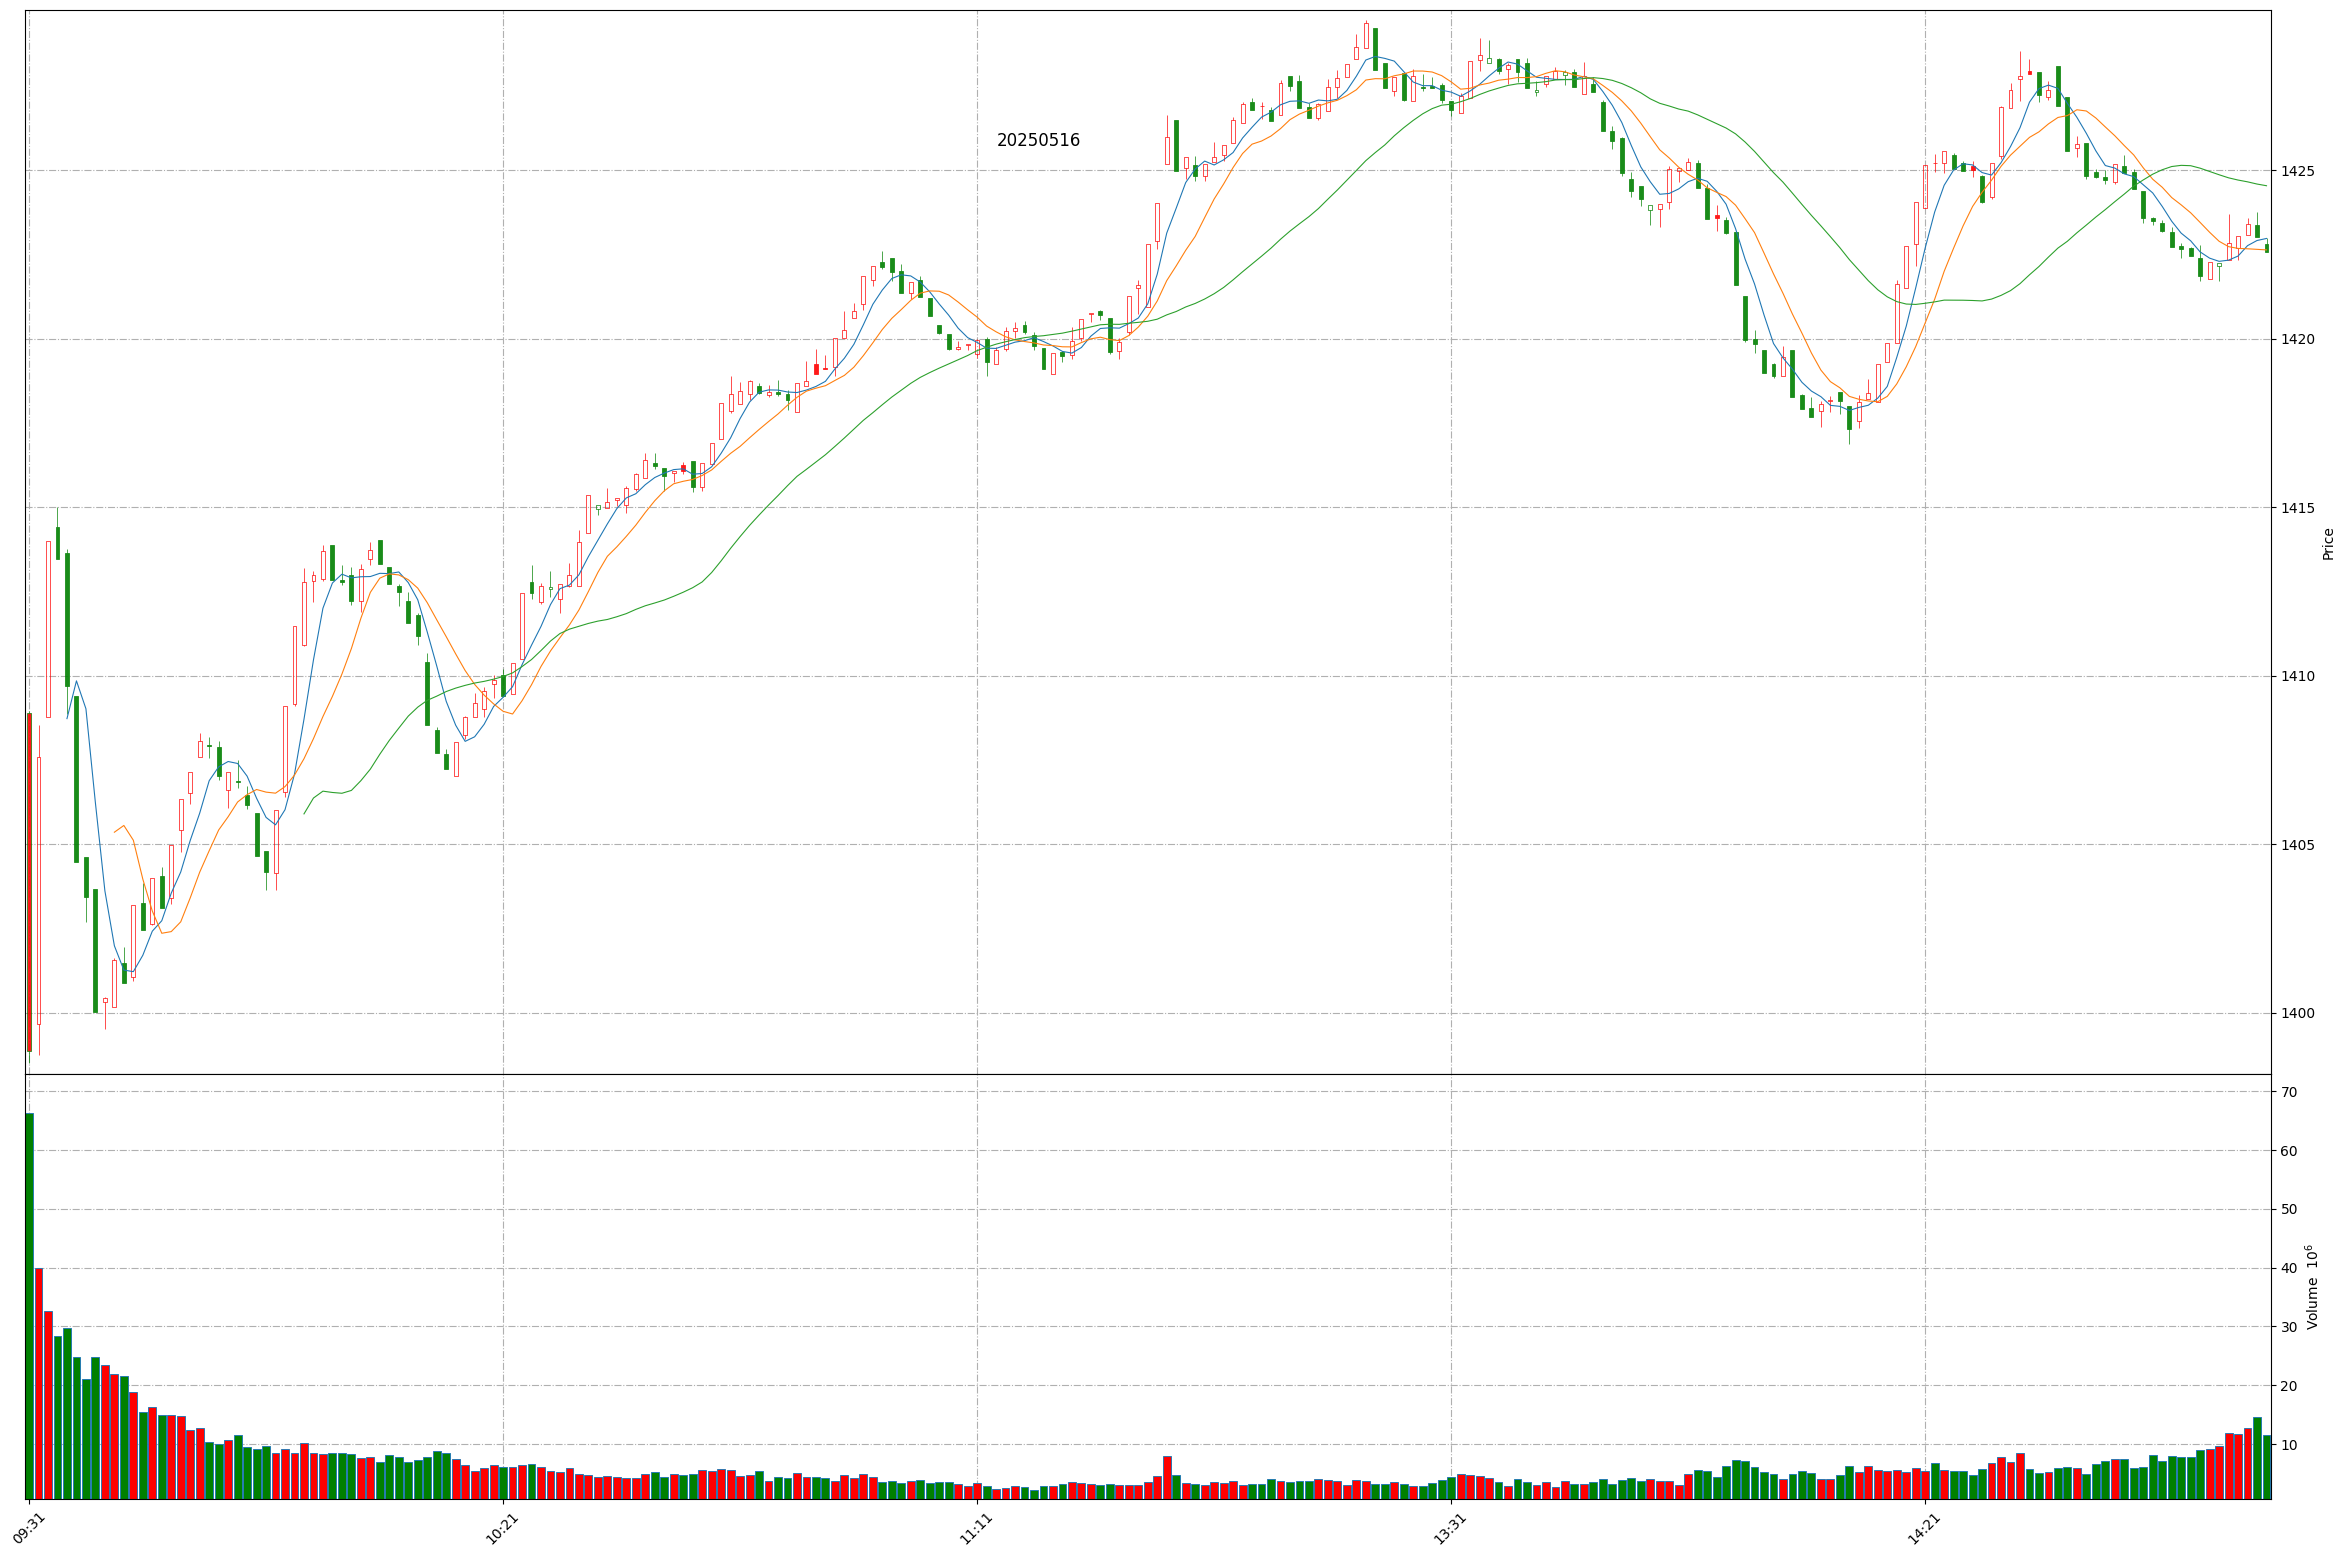
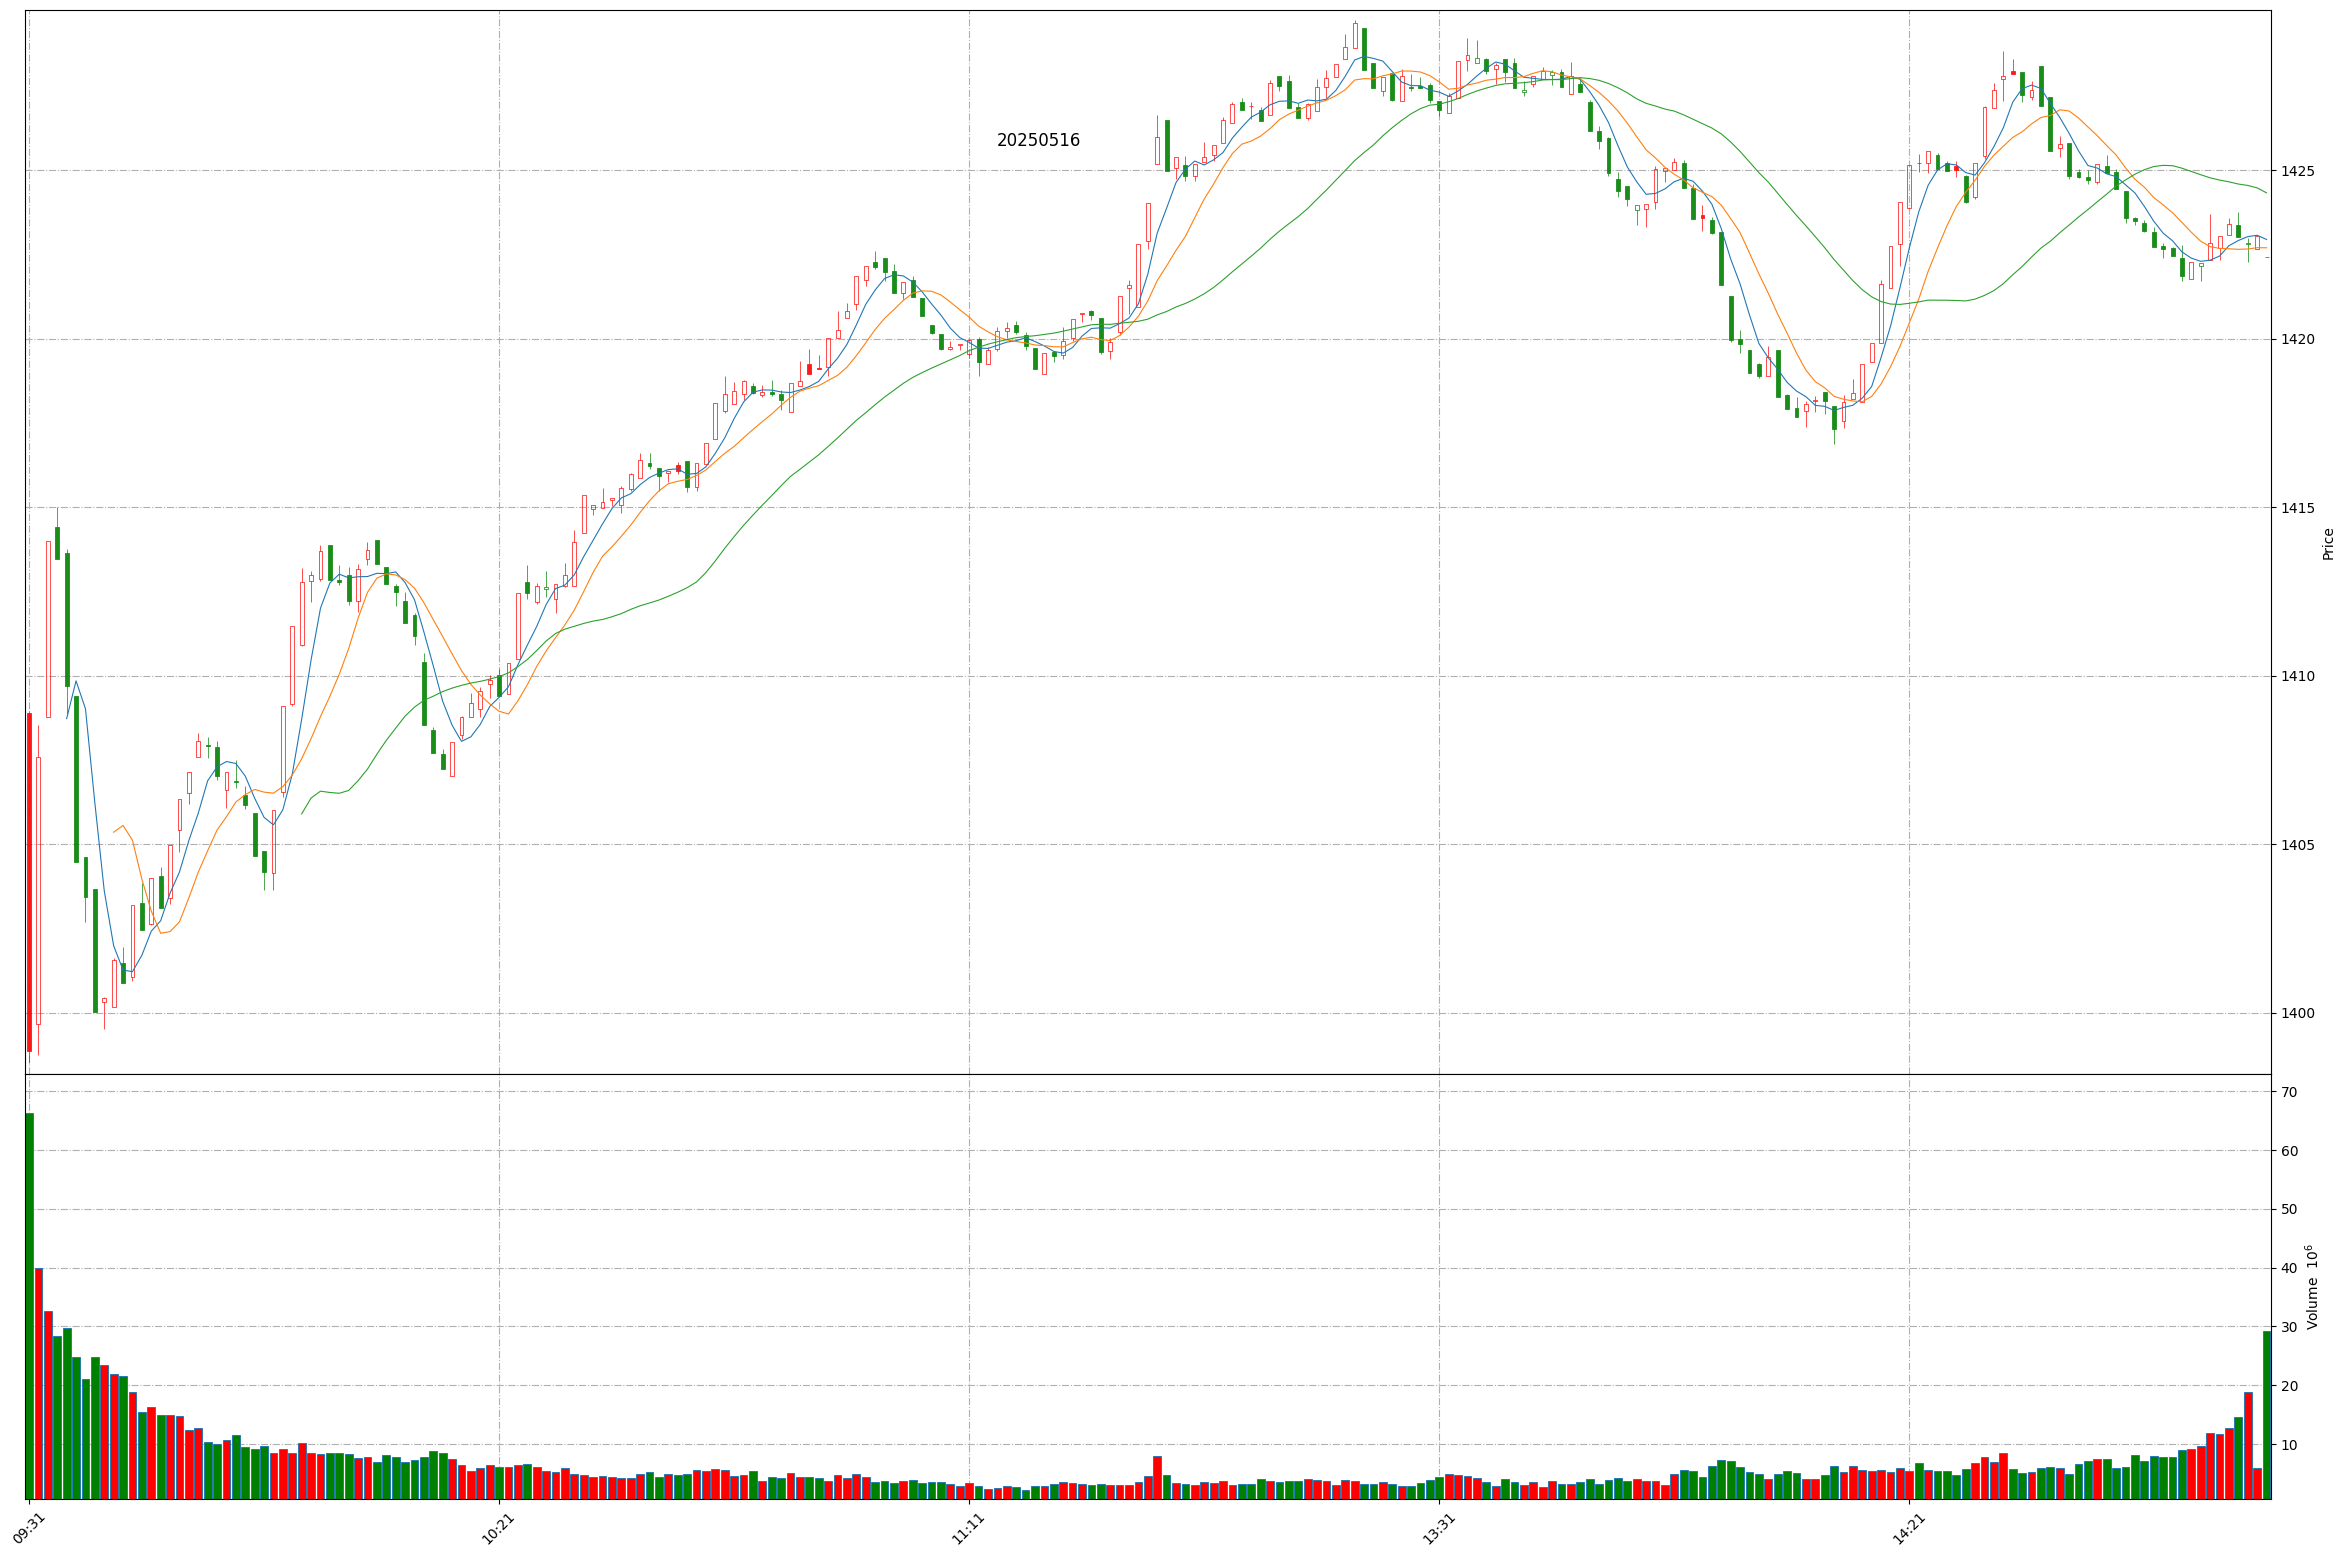
Github action update at 2025-05-16 15:14:13.

diff --git a/README.md b/README.md
@@ -1,11 +1,11 @@
 
 # Daily-A-share-market-quotes 每日 A 股指数（5min 更新）- 20250516
 
-### 上证指数 20250516 14:57
+### 上证指数 20250516 15:14
 ![](./fig/2025/5/20250516-sh000001.png)
 
-### 深证成指 20250516 14:57
+### 深证成指 20250516 15:14
 ![](./fig/2025/5/20250516-sz399001.png)
 
-### 北证50 20250516 14:57
+### 北证50 20250516 15:14
 ![](./fig/2025/5/20250516-bj899050.png)
